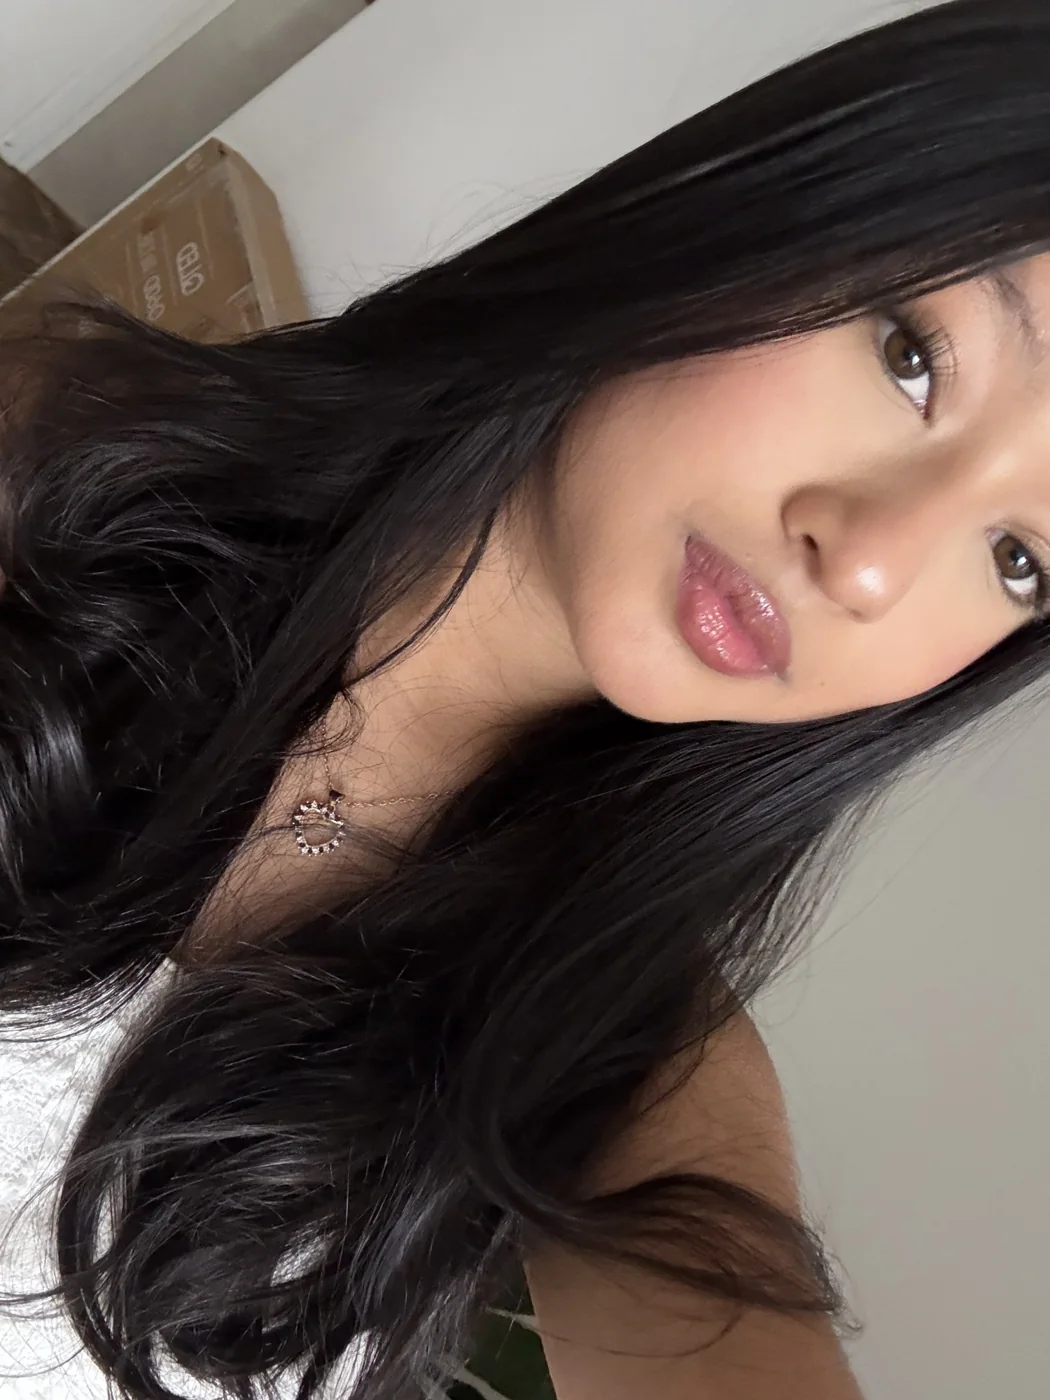
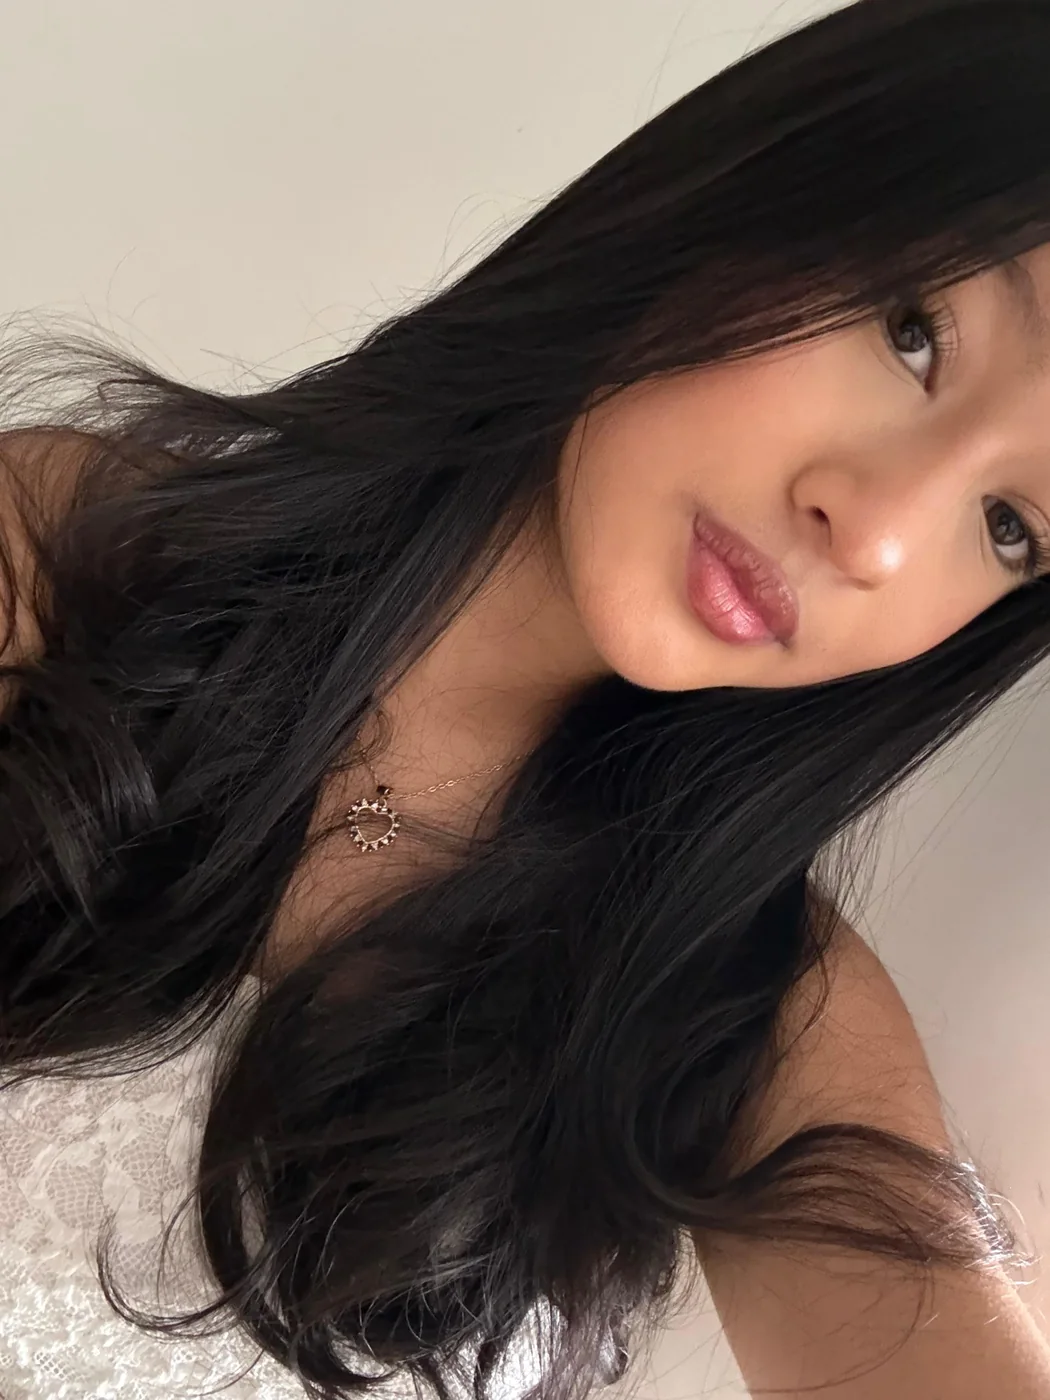
Galeria: ultima foto nueva

diff --git a/index.html b/index.html
@@ -331,7 +331,7 @@
         <figure class="polaroid" style="--r:4deg"><img src="assets/img/foto-bautizo.webp" alt="Luisa en su bautizo" width="1050" height="1400" loading="lazy" decoding="async"><figcaption>Mi bautizo…</figcaption></figure>
         <figure class="polaroid" style="--r:-3deg"><img src="assets/img/foto-nina.webp" alt="Luisa de niña con su tiara" width="1050" height="1400" loading="lazy" decoding="async"><figcaption>Soñando despierta…</figcaption></figure>
         <figure class="polaroid" style="--r:5deg"><img src="assets/img/foto-comunion.webp" alt="Luisa en su primera comunión" width="1050" height="1400" loading="lazy" decoding="async"><figcaption>Creciendo con fe…</figcaption></figure>
-        <figure class="polaroid" style="--r:-4deg"><img src="assets/img/foto-selfie.webp" alt="Luisa sonriendo hoy" width="1050" height="1400" loading="lazy" decoding="async"><figcaption>Mi historia continúa…</figcaption></figure>
+        <figure class="polaroid" style="--r:-4deg"><img src="assets/img/foto-selfie.webp?v=2" alt="Luisa sonriendo hoy" width="1050" height="1400" loading="lazy" decoding="async"><figcaption>Mi historia continúa…</figcaption></figure>
       </div>
       <p class="swipe-hint">desliza las fotos</p>
     </section>
